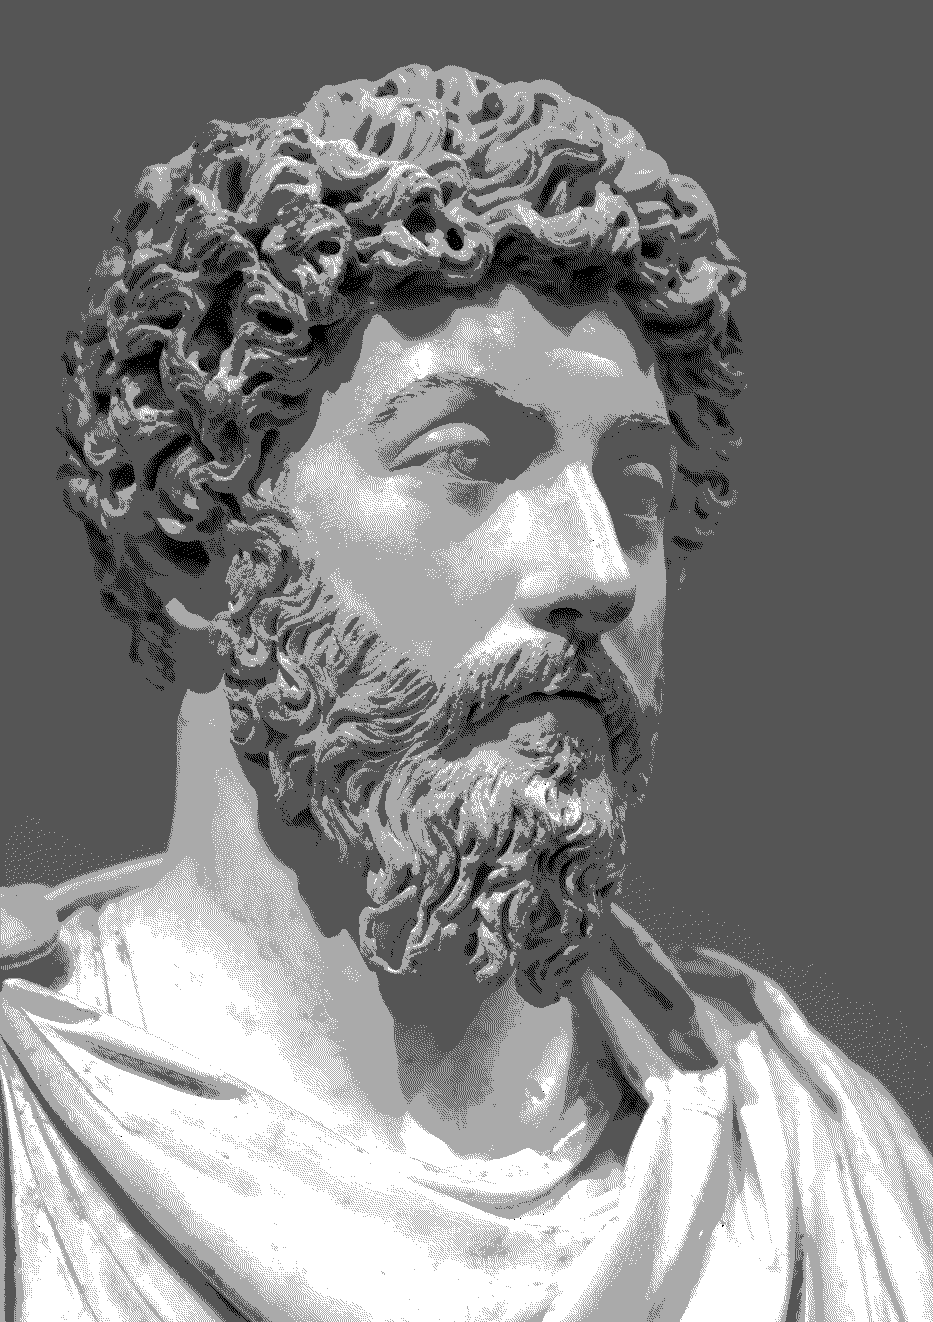
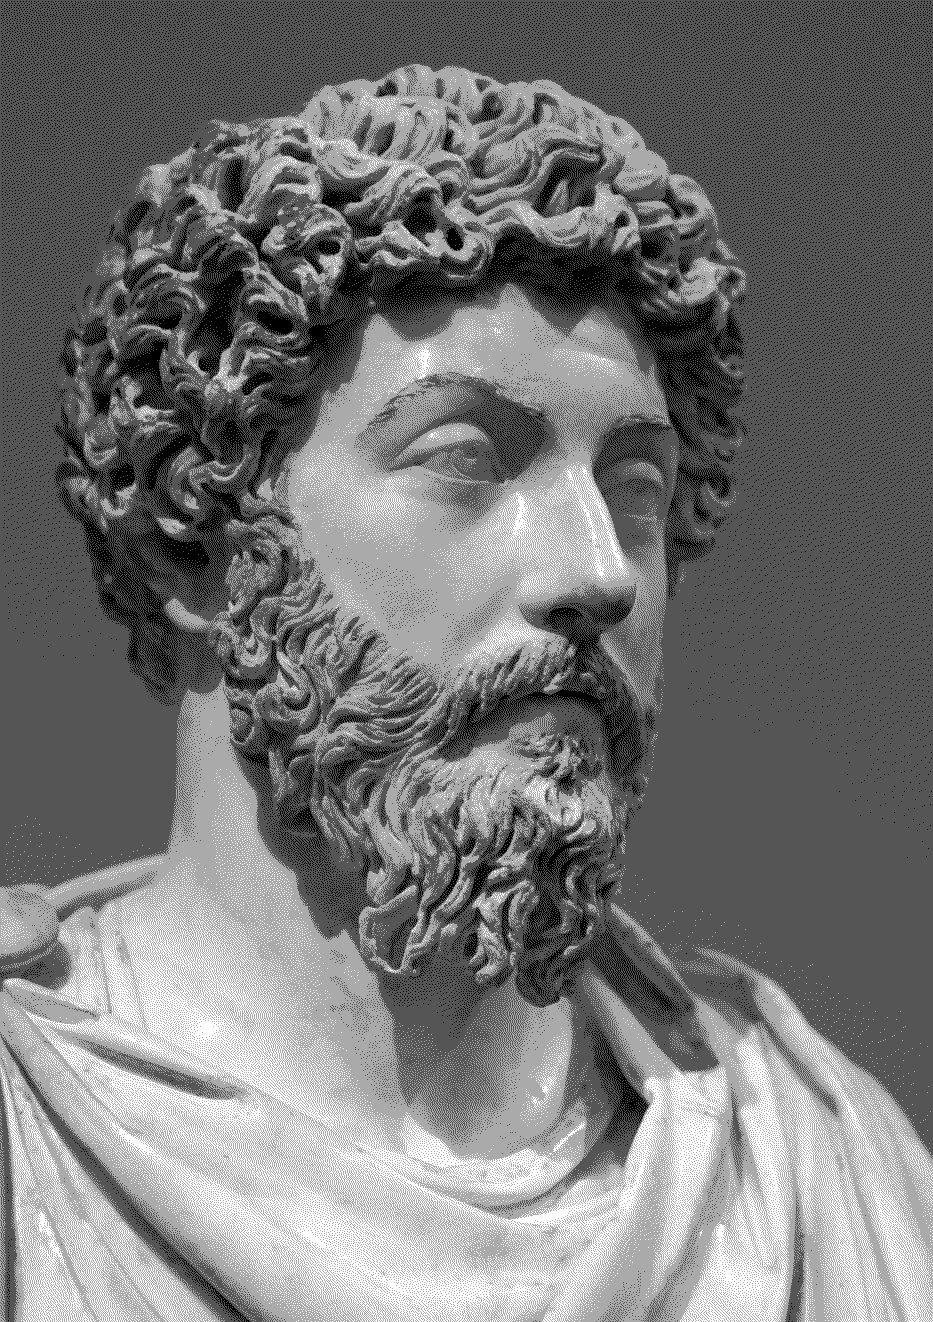
2 lab: Fixed bag with exceeding permissible limits of uint8 Added sample "standart_1bpp.png"

Changed region(s): [[0.0, 0.0, 1.0, 1.0]]

diff --git a/cmd/2_lab/main.go b/cmd/2_lab/main.go
@@ -73,19 +73,20 @@ func ditheringToNbpp(pixVal uint8, n float64) (uint8, int) {
 }
 
 // clamp limiting value to interval [0,255]
-func clamp(value int) uint8 {
-	if value < 0 {
+func clamp(pixVal uint8, err int) uint8 {
+	var result int = int(pixVal) + err
+	if result < 0 {
 		return 0
-	} else if value > 255 {
+	} else if result > 255 {
 		return 255
 	}
-	return uint8(value)
+	return uint8(result)
 }
 func ditheringFloydSteinberg() {
 	//var originFilename = "..\\..\\static\\images\\2_lab\\Marcus_Aurelius.jpg"
-	//var outputFilename = "..\\..\\static\\images\\2_lab\\Marcus_Aurelius_dithered_1bpp.png"
+	//var outputFilename = "..\\..\\static\\images\\2_lab\\Marcus_Aurelius_dithered_2bpp.png"
 
-	var originFilename = "..\\..\\static\\images\\2_lab\\elephant.jpg"
+	var originFilename = "..\\..\\static\\images\\2_lab\\elephant.png"
 	var outputFilename = "..\\..\\static\\images\\2_lab\\elephant_dithered_2bpp.png"
 
 	originImg := gocv.IMRead(originFilename, gocv.IMReadColor)
@@ -105,27 +106,27 @@ func ditheringFloydSteinberg() {
 			currPixValResult, err := ditheringToNbpp(currPixVal, 2)
 			if (x < wigth-1) && (y < height-1) && (x > 0) {
 				processingData[index] = currPixValResult
-				processingData[index+1] += clamp((7 * err) / 16)
-				processingData[index+wigth-1] += clamp((3 * err) / 16)
-				processingData[index+wigth] += clamp((5 * err) / 16)
-				processingData[index+wigth+1] += clamp(err / 16)
+				processingData[index+1] = clamp(processingData[index+1], (7*err)/16)
+				processingData[index+wigth-1] = clamp(processingData[index+wigth-1], (3*err)/16)
+				processingData[index+wigth] = clamp(processingData[index+wigth], (5*err)/16)
+				processingData[index+wigth+1] = clamp(processingData[index+wigth+1], err/16)
 			} else if (x == 0) && (y == height-1) { //Lower left corner
 				processingData[index] = currPixValResult
-				processingData[index+1] += clamp(7 * err / 16)
+				processingData[index+1] = clamp(processingData[index+1], 7*err/16)
 			} else if (x == wigth-1) && (y == height-1) { //Lower right corner
 				processingData[index] = currPixValResult
 			} else if x == 0 { //Left border
 				processingData[index] = currPixValResult
-				processingData[index+1] += clamp(7 * err / 16)
-				processingData[index+wigth] += clamp(5 * err / 16)
-				processingData[index+wigth+1] += clamp(err / 16)
+				processingData[index+1] = clamp(processingData[index+1], 7*err/16)
+				processingData[index+wigth] = clamp(processingData[index+wigth], 5*err/16)
+				processingData[index+wigth+1] = clamp(processingData[index+wigth+1], err/16)
 			} else if x == wigth-1 { //Right border
 				processingData[index] = currPixValResult
-				processingData[index+wigth-1] += clamp(3 * err / 16)
-				processingData[index+wigth] += clamp(5 * err / 16)
+				processingData[index+wigth-1] = clamp(processingData[index+wigth-1], 3*err/16)
+				processingData[index+wigth] = clamp(processingData[index+wigth], 5*err/16)
 			} else if y == height-1 { //Low border
 				processingData[index] = currPixValResult
-				processingData[index+1] += clamp(7 * err / 16)
+				processingData[index+1] = clamp(processingData[index+1], 7*err/16)
 			}
 		}
 	}
